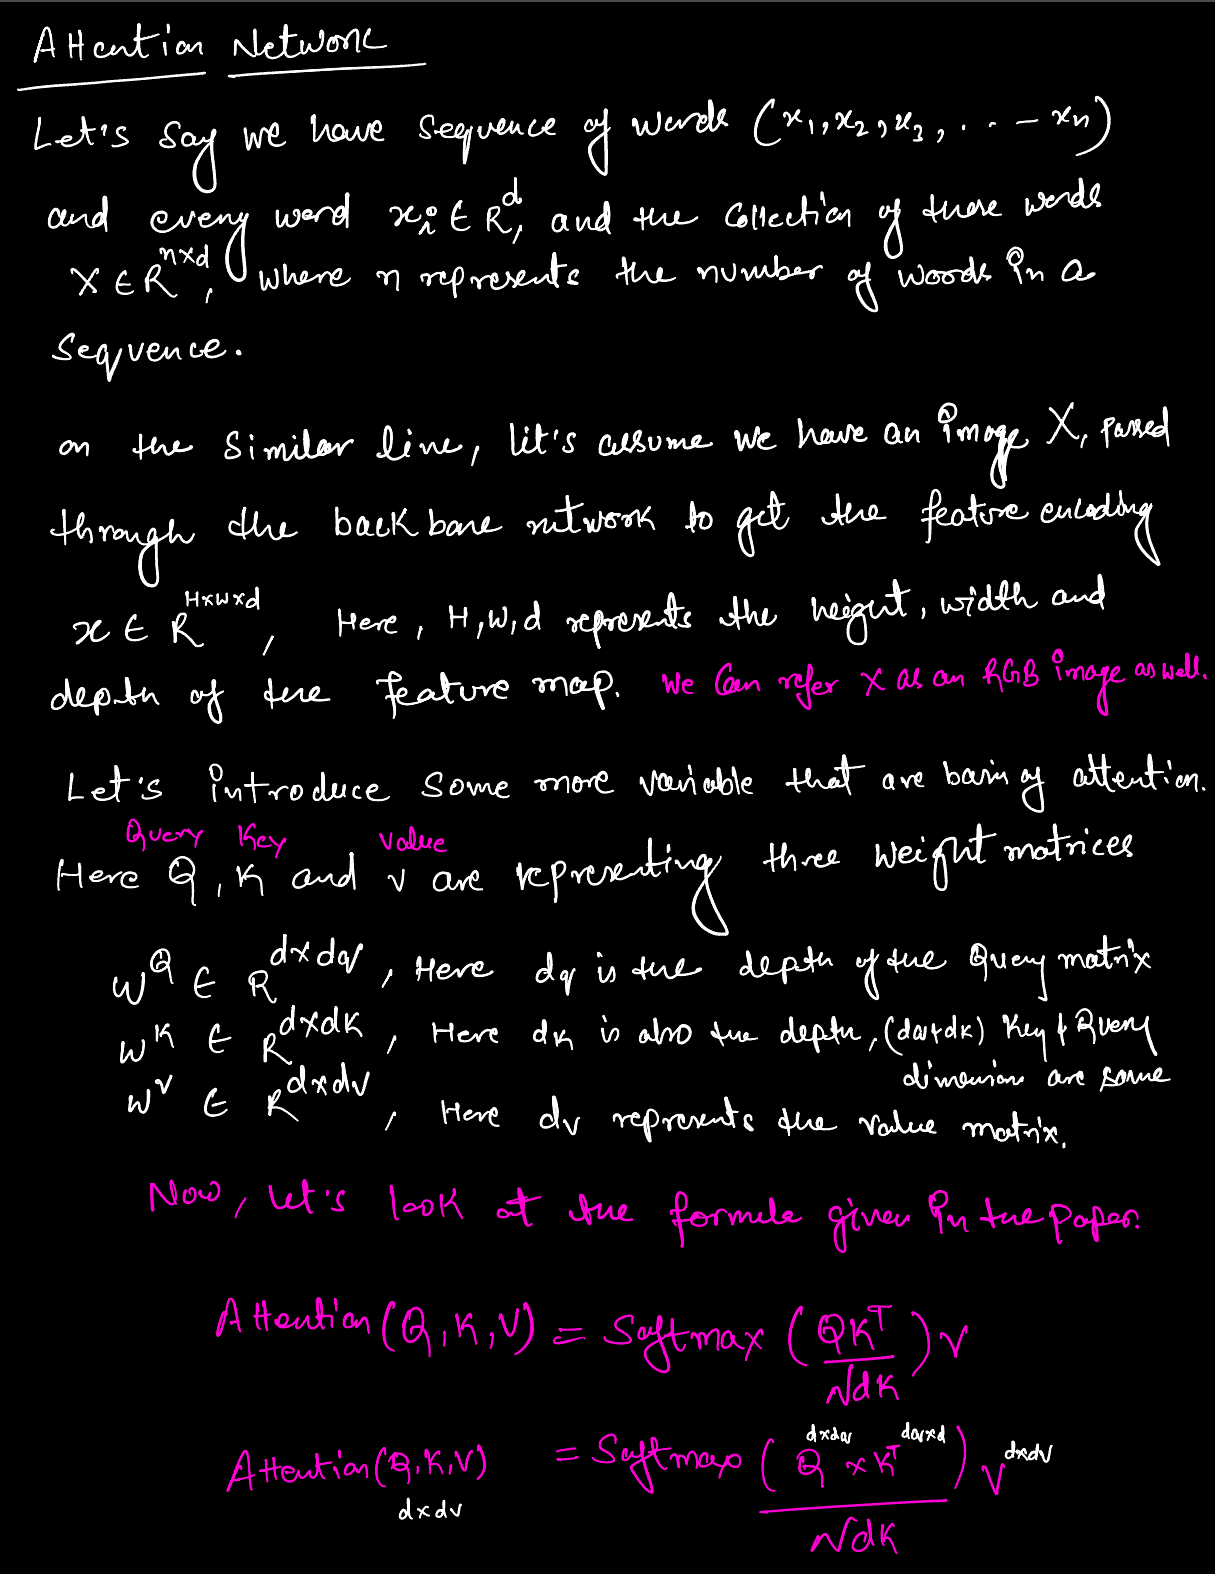
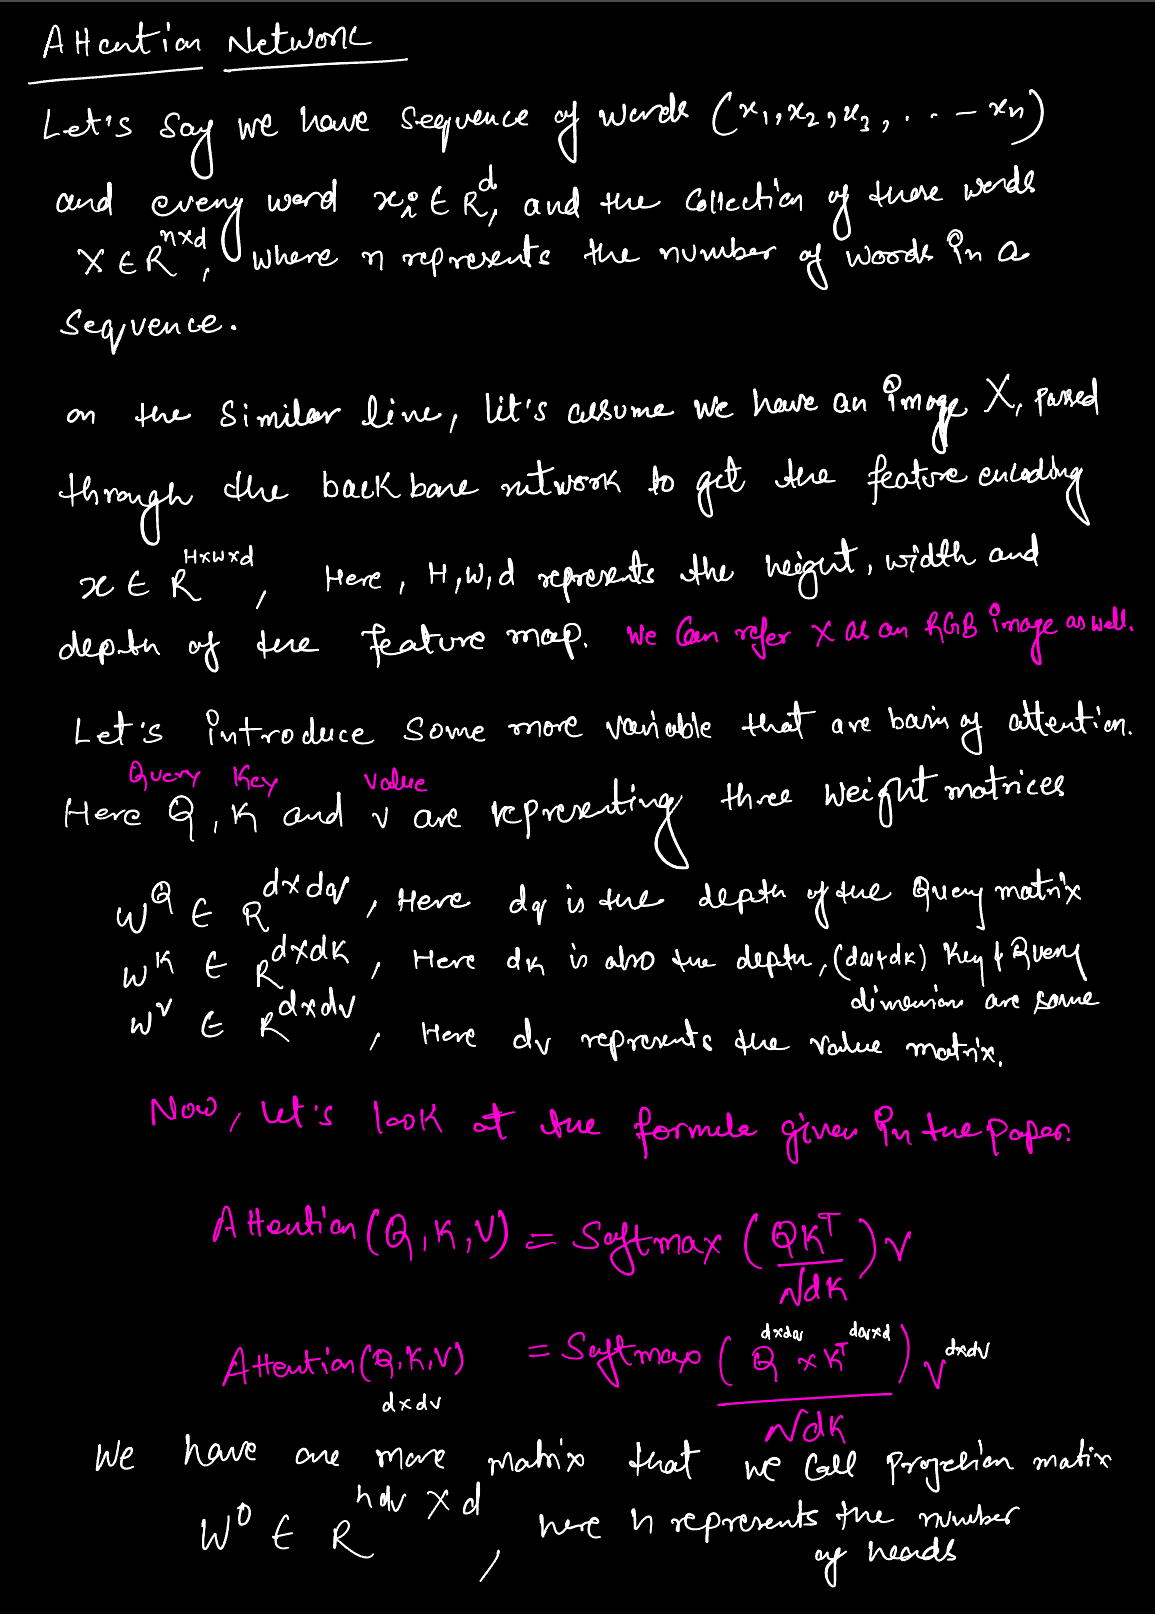
added attention post

diff --git a/content/posts/attention/index.md b/content/posts/attention/index.md
@@ -13,10 +13,10 @@ tags:
 ## Overview
 This article would discuss the following concepts
 > 1. Basic intuation of attention model
-> 2. Attention History
-> 3. Mathematics behind the attention model
-> 4. Implementation of attention mechanism
-> 5. Use of Tensorflow ``tf.keras.layers.MultiHeadAttention`` API
+> 2. Mathematics behind the attention model
+> 3. Implementation of attention mechanism
+> 4. Use of Tensorflow ``tf.keras.layers.MultiHeadAttention`` API
+> 5. Multi-Head Attention
 Without further delay, lets deep dive into what is attention mechanism, why it is so popular?
 
 ## Basic intuation of attention model
@@ -39,26 +39,100 @@ mahabharata_characters = {
 ```
 Build upon this intuation, attention mechanism keeps the track of long sequences and give more weightsage to only certain portion who are useful for the token.
 
-## Attention History
-The concept of attention in machine learning was first introduced by Dzmitry Bahdanau, Kyunghyun Cho, and Yoshua Bengio in their 2014 paper titled "Neural Machine Translation by Jointly Learning to Align and Translate." This paper introduced the attention mechanism as a solution to the limitations of traditional encoder-decoder models, particularly in handling long sequences.
-### Early Development
-The first existence of the attention mechanism can be traced back to 2014 with the aforementioned paper. The core idea was to allow the model to focus on different parts of the input sequence while generating the output, improving the handling of long dependencies in sequences.
-### Progress and Evolution
-Since its inception, attention mechanisms have seen rapid development and widespread adoption across various domains. The following milestones highlight the progress in the field: <br>
-<font color=#64ffda><strong>2015: </strong></font> Bahdanau et al.'s attention mechanism gained popularity and was quickly adopted in other sequence-to-sequence tasks. <br>
-<font color=#64ffda><strong>2017: </strong></font> The introduction of the Transformer model by Vaswani et al. in their paper "Attention is All You Need" marked a significant advancement. The Transformer model relies entirely on self-attention mechanisms, eliminating the need for recurrent networks. This model became the foundation for many state-of-the-art models. <br>
-<font color=#64ffda><strong>2018:</strong></font> OpenAI's GPT (Generative Pre-trained Transformer) demonstrated the power of large-scale unsupervised pre-training followed by fine-tuning on specific tasks. <br>
-<font color=#64ffda><strong>2018:</strong></font> BERT (Bidirectional Encoder Representations from Transformers) by Google introduced a novel way to pre-train transformers in a bidirectional manner, significantly improving performance on a wide range of NLP tasks. <br>
-<font color=#64ffda><strong>2020:</strong></font> The release of GPT-3 by OpenAI showcased the potential of extremely large models, setting new benchmarks in NLP.
-
 ## Mathematics behind the attention model
-If we see the architecture proposed in the paper[^1], it has the following component ``Scale``, ``Mask (Opt)``, ``Softmax`` and ``matmul``.
+If we see the architecture proposed in the paper[^1], it has the following component ``Scale``, ``Mask (Opt)``, ``Softmax`` and ``matmul``. These are expressed in the hand written notes.
 ![](./attention-1.png)
+The scaling or normalization is performed as if the value of dk is become a large number, then the dot products grow large in magnitude, pushing the softmax function into regions where it has extremely small gradients. To counteract this effect, we scale the dot products by ``1/sqrt(dk)`` [^1]. The mask operation is optional, this one is used, in sequence to sequence generation or similar application. When the objective of the model is to predict the next token (word), and the input feature is the collection of previous words and the next word. If we want to mask the future token, in that situation we can use this masking operation. This sets the upper tringular matrix of the dot product between query and key to infinte and when we apply softmax on top of this, the upper tringular matrix is set to zero. This we do to make the sum equal to 1. For more reference, follow this video [^2]. 
+![](./attention-2.png)
+![](./attention-3.png)
 ## Implementation of attention mechanism
+This section is the implementation of the above section in Tensorflow, I have taken reference from Professor Mubarak Shah Lecture, you can visit for more details [^3].
+```python:title=attention_model.py
+input_shape = (224, 224, 3)  # Assuming a 3-channel (RGB) image
 
+# Define the input layer
+inputs = tf.keras.Input(shape=input_shape)
+
+# Add a pre-trained ResNet50 layer (excluding the top classification layer)
+resnet50_base = applications.ResNet50(include_top=False, weights='imagenet', input_tensor=inputs)
+
+# number of filters
+dq = dk = dv =3
+feature_dimension = (resnet50_base.output_shape[1], resnet50_base.output_shape[2], dk)
+print("Output feature dimension:",feature_dimension)
+
+# Add a 1x1 convolutional layer to get the query
+query = layers.Conv2D(filters=dq, kernel_size=(1, 1), activation='relu', padding='same', name="query")(resnet50_base.output)
+print("Query output shape:", query.shape)
+
+# Add a 1x1 convolutional layer to get the key
+key = layers.Conv2D(filters=dk, kernel_size=(1, 1), activation='relu', padding='same', name="key")(resnet50_base.output)
+print("Key output shape:", key.shape)
+
+# Add a 1x1 convolutional layer to get the value
+value = layers.Conv2D(filters=dv, kernel_size=(1, 1), activation='relu', padding='same', name="value")(resnet50_base.output)
+print("Value output shape:", value.shape)
+
+# Flatten the conv_layer to a 2D tensor
+flattened_query = layers.Reshape((-1, 3))(query)
+flattened_key = layers.Reshape((-1, 3))(key)
+flattened_value = layers.Reshape((-1, 3))(value)
+
+print("Flattened Query shape:", flattened_query.shape)
+print("Flattened Key shape:", flattened_key.shape)
+print("Flattened Value shape:", flattened_value.shape)
+
+# Transpose the flattened_key
+transposed_key = layers.Lambda(lambda x: tf.transpose(x, perm=[0, 2, 1]))(flattened_key)
+
+# Print the shape of the transposed_key
+print("Transposed Key shape:", transposed_key.shape)
+
+# Compute the dot product between the query and the key and scale it
+scaled_prod = layers.Dot(axes=(2,1))([flattened_query, transposed_key]) / tf.math.sqrt(tf.cast(dk, tf.float32))
+print("Dot Product shape:", prod.shape)
+
+# Apply softmax to the attention scores
+softmax_layer = layers.Softmax()(scaled_prod)
+print("Softmax shape:", softmax_layer.shape)
+
+# Compute the attention-weighted value
+attention_output = layers.Dot(axes=1)([softmax_layer, flattened_value])
+print("Attention Output shape:", attention_output.shape)
+
+reshaped_attention_output = layers.Reshape((feature_dimension))(attention_output)
+
+
+# # Reshape the attention output to match the original image dimensions
+# reshaped_attention_output = layers.Reshape((32, 32, 3))(attention_output)
+print("Reshaped Attention Output shape:", reshaped_attention_output.shape)
+
+# Apply a 1x1 convolutional layer to the attention output
+self_attended_feature = layers.Conv2D(filters=3, kernel_size=(1, 1), activation='relu', padding='same', 
+                                      name="feature_map")(reshaped_attention_output)
+print("Self-attended Feature shape:", self_attended_feature.shape)
+```
 ## Use of Tensorflow ``tf.keras.layers.MultiHeadAttention`` API
+If you are using Tensoflow then, you may use ``tf.keras.layers.MultiHeadAttention`` this API to use the multihead attention directly. If ``query``, ``key``, ``value`` are the same, then this is self-attention [^4]. Each timestep in query attends to the corresponding sequence in ``key``, and returns a fixed-width vector.
+
+This layer first projects ``query``, ``key`` and ``value``. These are (effectively) a list of tensors of length ``num_attention_heads``, where the corresponding shapes are (``batch_size``, ``<query dimensions>``, ``key_dim``), (``batch_size``, ``<key/value dimensions>``, ``key_dim``), (``batch_size``, ``<key/value dimensions>``, ``value_dim``).
+
+Then, the query and key tensors are dot-producted and scaled. These are softmaxed to obtain attention probabilities. The value tensors are then interpolated by these probabilities, then concatenated back to a single tensor. Finally, the result tensor with the last dimension as value_dim can take a linear projection and return.
+
+```python:title=multihead_attention_model.py
+self_attended_feature = layers.MultiHeadAttention(num_heads=1, key_dim=3, value_dim = 3)(resnet50_base.output, resnet50_base.output)
+```
+
+The comparison between both the models can be seen in the below figure.
+![](./attention-4.png)
+## Multi Head Attention
+When the number of head is one and the query, key and value dimensions are same then same network becomes self attention. But when we use multiple heads then the same network (key, query and value) gets multiplied with the number of heads and produced those many feature maps. Let's take the same example and extend it for the multiple heads. 
+![](./attention-5.png)
 
 ## References
 [^1]: Vaswani, A., Shazeer, N., Parmar, N., Uszkoreit, J., Jones, L., Gomez, A. N., ... & Polosukhin, I. (2017). Attention is all you need. Advances in neural information processing systems, 30.
+[^2]: https://www.youtube.com/watch?v=mmzRYGCfTzc
+[^3]: https://www.youtube.com/watch?v=WyuZvGt7RY4&t=2207s
+[^4]: https://www.tensorflow.org/api_docs/python/tf/keras/layers/MultiHeadAttention
 
 
